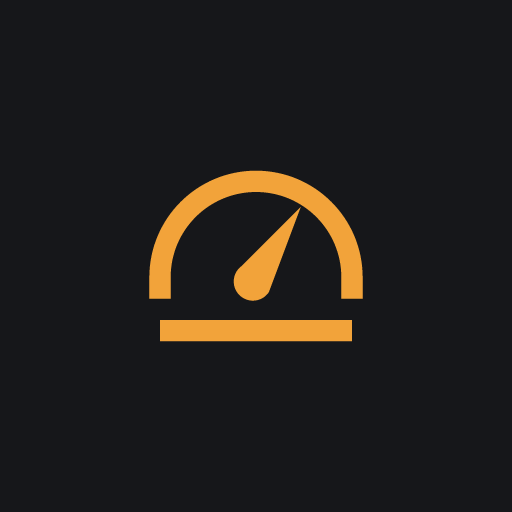
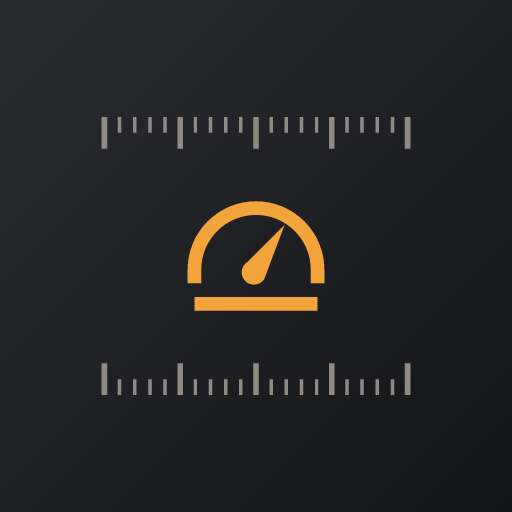
preview30

Changed region(s): [[0.1875, 0.3125, 0.8125, 0.7812], [0.1875, 0.2188, 0.8125, 0.3125]]

diff --git a/js/ui/brand.js b/js/ui/brand.js
@@ -57,3 +57,45 @@ export function iconSVG({ size = 512, inset = 0.74, bg = true } = {}) {
     + `<path d="M48 44 H72 M60 44 V100" fill="none" stroke="${amber}" stroke-width="7"/>`
     + '</g></svg>';
 }
+
+// A tool app's icon in the same language: the tool's glyph in amber between the focus scale and the
+// iris ring, so every VidTooList app on a home screen reads as one family. `glyph` is [viewBox, body].
+export function toolIconSVG(glyph, size = 512, inset = 0.74) {
+  const [vb, body] = glyph;
+  const [x, y, w, h] = vb.split(/\s+/).map(Number);
+  const box = 52, k = box / Math.max(w, h);
+  const tx = 60 - (w * k) / 2 - x * k, ty = 60 - (h * k) / 2 - y * k;
+  return `<svg xmlns="http://www.w3.org/2000/svg" width="${size}" height="${size}" viewBox="0 0 120 120">`
+    + '<defs><linearGradient id="g" x1="0" y1="0" x2="1" y2="1"><stop offset="0" stop-color="#2a2c30"/><stop offset="1" stop-color="#131416"/></linearGradient></defs><rect width="120" height="120" fill="url(#g)"/>'
+    + `<g transform="translate(60 60) scale(${inset}) translate(-60 -60)">`
+    + ticks(12, 108, 16, 4.8, 5, 10, 1, 'stroke="#8f8b84"')
+    + ticks(12, 108, 104, 4.8, 5, 10, -1, 'stroke="#8f8b84"')
+    + `<g fill="#F2A33A" transform="translate(${tx.toFixed(2)} ${ty.toFixed(2)}) scale(${k.toFixed(4)})">${body}</g>`
+    + '</g></svg>';
+}
+
+// The wordmark as a PNG data URL, drawn on a canvas with the page's own Barlow Condensed (an SVG in an
+// <img> cannot reach web fonts). For documents: dark letters, grey scales, amber marks, transparent.
+export async function wordmarkPNG({ scale = 4, ink = '#111111', tick = '#777777', acc = '#E88A00' } = {}) {
+  try { await document.fonts.load('500 54px "Barlow Condensed"'); } catch { /* falls back to the system face */ }
+  const c = document.createElement('canvas');
+  c.width = 300 * scale; c.height = 76 * scale;
+  const g = c.getContext('2d');
+  g.scale(scale, scale);
+  g.strokeStyle = tick;
+  for (const [y0, dir] of [[2, 1], [74, -1]]) {
+    for (let n = 0, x = 4; x <= 296.01; x += 5.84, n++) {
+      g.lineWidth = n % 5 === 0 ? 1.8 : 1.1;
+      g.beginPath(); g.moveTo(x, y0); g.lineTo(x, y0 + dir * (n % 5 === 0 ? 9 : 5)); g.stroke();
+    }
+  }
+  g.fillStyle = ink; g.font = '500 54px "Barlow Condensed", sans-serif'; g.textAlign = 'center';
+  for (const [x, ch] of [[16, 'V'], [70, 'D'], [100, 'T'], [204, 'L'], [254, 'S'], [282, 'T']]) g.fillText(ch, x, 58);
+  const k = 50 / 22;
+  g.save(); g.translate(152 - 12 * k, 39 - 6 * k); g.scale(k, k);
+  g.strokeStyle = acc; g.lineWidth = 3.2 / k; g.lineJoin = 'round'; g.stroke(new Path2D(LEM)); g.restore();
+  g.fillStyle = acc;
+  g.fillRect(41.6, 18, 5, 40); g.fillRect(43.1, 2, 2, 12); g.beginPath(); g.arc(44.1, 12.5, 3.4, 0, 7); g.fill();
+  g.fillRect(226.4, 20, 5, 40); g.fillRect(227.9, 66, 2, 8); g.beginPath(); g.arc(228.9, 65, 3.4, 0, 7); g.fill();
+  return c.toDataURL('image/png');
+}

diff --git a/css/style.css b/css/style.css
@@ -1152,8 +1152,10 @@ html.vfx-on, html.vfx-on body { overflow: hidden; }
 
 /* ---------- the exported list opens with a slate (v2.8) ---------- */
 .print .pslate { margin: 4px 0 14px; border: 2px solid #000; }
-.print .pslate-sticks { height: 16px; position: relative; background: repeating-linear-gradient(-45deg, #000 0 12px, #fff 12px 24px); border-bottom: 2px solid #000; }
-.print .pslate-sticks .mark { position: absolute; inset-inline-end: 8px; top: 1px; background: #fff; border: 1px solid #000; padding: 0 5px; font-size: 9px; letter-spacing: .14em; line-height: 12px; font-weight: 600; }
+.print .pslate-sticks { height: 34px; position: relative; background: repeating-linear-gradient(-45deg, #000 0 12px, #fff 12px 24px); border-bottom: 2px solid #000; }
+.print .pslate-sticks .mark { position: absolute; inset-inline-end: 8px; top: 3px; background: #fff; border: 1px solid #000; padding: 1px 6px; }
+.print .pslate-sticks .mark .wmk { height: 24px; }
+.print .wmk .wm-ink { fill: #111; } .print .wmk .wm-tick line { stroke: #777; } .print .wmk .wm-inf { stroke: #E88A00; } .print .wmk .wm-acc { fill: #E88A00; }
 .print .pslate-sticks .mark b { font-weight: 600; }
 .print .pslate-board { display: grid; grid-template-columns: 1fr 1fr; }
 .print .pslate-cell { padding: 7px 10px 8px; border-bottom: 1px solid #000; border-inline-end: 1px solid #000; min-width: 0; }
@@ -1574,3 +1576,8 @@ button.pst:active { transform: scale(.97); }
 .wmk .wm-acc { fill: var(--accent); }
 :root[data-theme="sun"] .wmk .wm-inf { stroke: var(--text); }
 :root[data-theme="sun"] .wmk .wm-acc { fill: var(--accent-ink); }
+/* Ten tools in rows of three: the last one runs the full width as a wide key */
+.toolrow .tr-t:last-child:nth-child(3n+1) { grid-column: 1 / -1; aspect-ratio: auto; flex-direction: row; gap: 10px; padding: 12px; }
+.toolrow .tr-t:last-child:nth-child(3n+1) .tr-n { margin-top: 0; }
+/* The print preview is a sheet of paper whatever the app's lighting — black on white */
+@media screen { .print { background: #fff; border-radius: 14px; } .print .screen-only.card { color: var(--text); } }

diff --git a/js/export-print.js b/js/export-print.js
@@ -1,4 +1,5 @@
 import { esc } from './ui/dom.js';
+import { wordmark } from './ui/brand.js';
 import { displayName, formatDateRange, fmtDate, todayStr, roleKey } from './export-text.js';
 
 // The printed list reads like a list: a thin clapper stripe on top, the production name, one line of
@@ -38,7 +39,7 @@ export function renderPrint(ctx, project, groups, root, { includeNotes = true, i
   root.innerHTML = `<div class="print" dir="${dir}" lang="${lang}">
     <div class="screen-only card"><b>${ctx.t('pdf_hint')}</b><button class="btn sm primary" data-print>${ctx.t('pdf')}</button></div>
     <header class="pslate">
-      <div class="pslate-sticks"><span class="mark" role="img" aria-label="VidTooList">VIDT<b><svg class="inf" viewBox="0 0.4 24 11.2" aria-hidden="true"><path d="M23.00 6.00 L22.88 7.18 L22.52 8.28 L21.96 9.22 L21.25 9.96 L20.46 10.47 L19.62 10.76 L18.78 10.86 L17.96 10.79 L17.19 10.58 L16.46 10.27 L15.78 9.87 L15.14 9.40 L14.55 8.89 L14.00 8.35 L13.47 7.78 L12.97 7.19 L12.48 6.60 L12.00 6.00 L11.52 5.40 L11.03 4.81 L10.53 4.22 L10.00 3.65 L9.45 3.11 L8.86 2.60 L8.22 2.13 L7.54 1.73 L6.81 1.42 L6.04 1.21 L5.22 1.14 L4.38 1.24 L3.54 1.53 L2.75 2.04 L2.04 2.78 L1.48 3.72 L1.12 4.82 L1.00 6.00 L1.12 7.18 L1.48 8.28 L2.04 9.22 L2.75 9.96 L3.54 10.47 L4.38 10.76 L5.22 10.86 L6.04 10.79 L6.81 10.58 L7.54 10.27 L8.22 9.87 L8.86 9.40 L9.45 8.89 L10.00 8.35 L10.53 7.78 L11.03 7.19 L11.52 6.60 L12.00 6.00 L12.48 5.40 L12.97 4.81 L13.47 4.22 L14.00 3.65 L14.55 3.11 L15.14 2.60 L15.78 2.13 L16.46 1.73 L17.19 1.42 L17.96 1.21 L18.78 1.14 L19.62 1.24 L20.46 1.53 L21.25 2.04 L21.96 2.78 L22.52 3.72 L22.88 4.82 L23.00 6.00Z"/></svg></b>LIST</span></div>
+      <div class="pslate-sticks"><span class="mark">${wordmark()}</span></div>
       <div class="pslate-board">
         <div class="pslate-cell wide"><small>${esc(t('project_name'))}</small><h1><bdi>${esc(project.name || t('untitled'))}</bdi></h1></div>
         ${slateCells.map(([k, v]) => `<div class="pslate-cell"><small>${esc(k)}</small><b>${v}</b></div>`).join('')}

diff --git a/js/export-docx.js b/js/export-docx.js
@@ -1,6 +1,7 @@
 import { loadScript, download } from './ui/dom.js';
 import { displayName, formatDateRange, roleKey } from './export-text.js';
 import { safeName } from './export-xlsx.js';
+import { wordmarkPNG } from './ui/brand.js';
 
 // OOXML defines the children of <w:rPr> as a sequence, so their order is part of the format.
 // The bundled library appends them in the order it happens to check its options, which puts
@@ -105,7 +106,11 @@ export async function exportDocx(project, groups, { lang, includeNotes = true, i
     slateRows.push(new D.TableRow({ cantSplit: true, children: pair.map(([k, v], j) => cell([label(k), P(v, { size: 22, bold: true, spacing: { after: 20 } })],
       { w: pair.length === 1 ? stickW * STICKS : (j ? stickW * STICKS - half : half), span: pair.length === 1 ? STICKS : STICKS / 2, borders: box })) }));
   }
+  // The wordmark above the slate, drawn on a canvas so it keeps the brand's typeface.
+  let mark = null;
+  try { mark = await wordmarkPNG(); } catch { /* no canvas: the document goes without it */ }
   const children = [
+    ...(mark ? [new D.Paragraph({ alignment: D.AlignmentType.END, spacing: { after: 120 }, children: [new D.ImageRun({ data: mark, transformation: { width: 190, height: 48 } })] })] : []),
     new D.Table({ width: { size: stickW * STICKS, type: D.WidthType.DXA }, columnWidths: Array(STICKS).fill(stickW), layout: D.TableLayoutType.FIXED, visuallyRightToLeft: rtl, rows: slateRows }),
   ];
   if (project.notes) children.push(P(project.notes, { color: '555555', spacing: { before: 120 } }));

diff --git a/js/ui/projects.js b/js/ui/projects.js
@@ -60,7 +60,7 @@ export function editProjectSheet(ctx, id) {
 // Home opens on the project you are working on: a hero card with its departments and cameras,
 // then the field tools, then every project. The wordmark shrinks into the top bar.
 // Every tool sits on the home screen, two rows of four, so none hides behind an extra tap.
-const HOME_TOOLS = ['fov', 'slate', 'sun', 'media', 'shutter', 'hours', 'offload', 'downloads', 'units'];
+const HOME_TOOLS = ['fov', 'slate', 'sun', 'media', 'shutter', 'iso', 'hours', 'offload', 'downloads', 'units'];
 
 // Three live readings under the active project, the way a camera's home screen shows its settings:
 // how far the kit is, when the light goes, and what is on the list. Each fills itself.

diff --git a/apps/downloads/sw.js b/apps/downloads/sw.js
@@ -1,6 +1,6 @@
 // VidTooList Downloads works offline after the first visit: every same-origin file is fetched fresh when
 // the network is there and kept, and served from the cache when it is not (on set, signal comes and goes).
-const VERSION = 'downloads-v1-p29';
+const VERSION = 'downloads-v1-p30';
 self.addEventListener('install', () => self.skipWaiting());
 self.addEventListener('activate', (e) => {
   e.waitUntil(caches.keys().then(keys => Promise.all(keys.filter(k => k.startsWith('downloads-') && k !== VERSION).map(k => caches.delete(k)))).then(() => self.clients.claim()));

diff --git a/apps/offload/sw.js b/apps/offload/sw.js
@@ -1,6 +1,6 @@
 // VidTooList Offload works offline after the first visit: every same-origin file is fetched fresh when
 // the network is there and kept, and served from the cache when it is not (on set, signal comes and goes).
-const VERSION = 'offload-v1-p29';
+const VERSION = 'offload-v1-p30';
 self.addEventListener('install', () => self.skipWaiting());
 self.addEventListener('activate', (e) => {
   e.waitUntil(caches.keys().then(keys => Promise.all(keys.filter(k => k.startsWith('offload-') && k !== VERSION).map(k => caches.delete(k)))).then(() => self.clients.claim()));

diff --git a/apps/shutter/sw.js b/apps/shutter/sw.js
@@ -1,6 +1,6 @@
 // VidTooList Shutter works offline after the first visit: every same-origin file is fetched fresh when
 // the network is there and kept, and served from the cache when it is not (on set, signal comes and goes).
-const VERSION = 'shutter-v1-p29';
+const VERSION = 'shutter-v1-p30';
 self.addEventListener('install', () => self.skipWaiting());
 self.addEventListener('activate', (e) => {
   e.waitUntil(caches.keys().then(keys => Promise.all(keys.filter(k => k.startsWith('shutter-') && k !== VERSION).map(k => caches.delete(k)))).then(() => self.clients.claim()));

diff --git a/apps/hours/sw.js b/apps/hours/sw.js
@@ -1,6 +1,6 @@
 // VidTooList Hours works offline after the first visit: every same-origin file is fetched fresh when
 // the network is there and kept, and served from the cache when it is not (on set, signal comes and goes).
-const VERSION = 'hours-v1-p29';
+const VERSION = 'hours-v1-p30';
 self.addEventListener('install', () => self.skipWaiting());
 self.addEventListener('activate', (e) => {
   e.waitUntil(caches.keys().then(keys => Promise.all(keys.filter(k => k.startsWith('hours-') && k !== VERSION).map(k => caches.delete(k)))).then(() => self.clients.claim()));

diff --git a/apps/media/sw.js b/apps/media/sw.js
@@ -1,6 +1,6 @@
 // VidTooList Media works offline after the first visit: every same-origin file is fetched fresh when
 // the network is there and kept, and served from the cache when it is not (on set, signal comes and goes).
-const VERSION = 'media-v1-p29';
+const VERSION = 'media-v1-p30';
 self.addEventListener('install', () => self.skipWaiting());
 self.addEventListener('activate', (e) => {
   e.waitUntil(caches.keys().then(keys => Promise.all(keys.filter(k => k.startsWith('media-') && k !== VERSION).map(k => caches.delete(k)))).then(() => self.clients.claim()));

diff --git a/apps/slate/sw.js b/apps/slate/sw.js
@@ -1,6 +1,6 @@
 // VidTooList Slate works offline after the first visit: every same-origin file is fetched fresh when
 // the network is there and kept, and served from the cache when it is not (on set, signal comes and goes).
-const VERSION = 'slate-v1-p29';
+const VERSION = 'slate-v1-p30';
 self.addEventListener('install', () => self.skipWaiting());
 self.addEventListener('activate', (e) => {
   e.waitUntil(caches.keys().then(keys => Promise.all(keys.filter(k => k.startsWith('slate-') && k !== VERSION).map(k => caches.delete(k)))).then(() => self.clients.claim()));

diff --git a/apps/units/sw.js b/apps/units/sw.js
@@ -1,6 +1,6 @@
 // VidTooList Units works offline after the first visit: every same-origin file is fetched fresh when
 // the network is there and kept, and served from the cache when it is not (on set, signal comes and goes).
-const VERSION = 'units-v1-p29';
+const VERSION = 'units-v1-p30';
 self.addEventListener('install', () => self.skipWaiting());
 self.addEventListener('activate', (e) => {
   e.waitUntil(caches.keys().then(keys => Promise.all(keys.filter(k => k.startsWith('units-') && k !== VERSION).map(k => caches.delete(k)))).then(() => self.clients.claim()));
